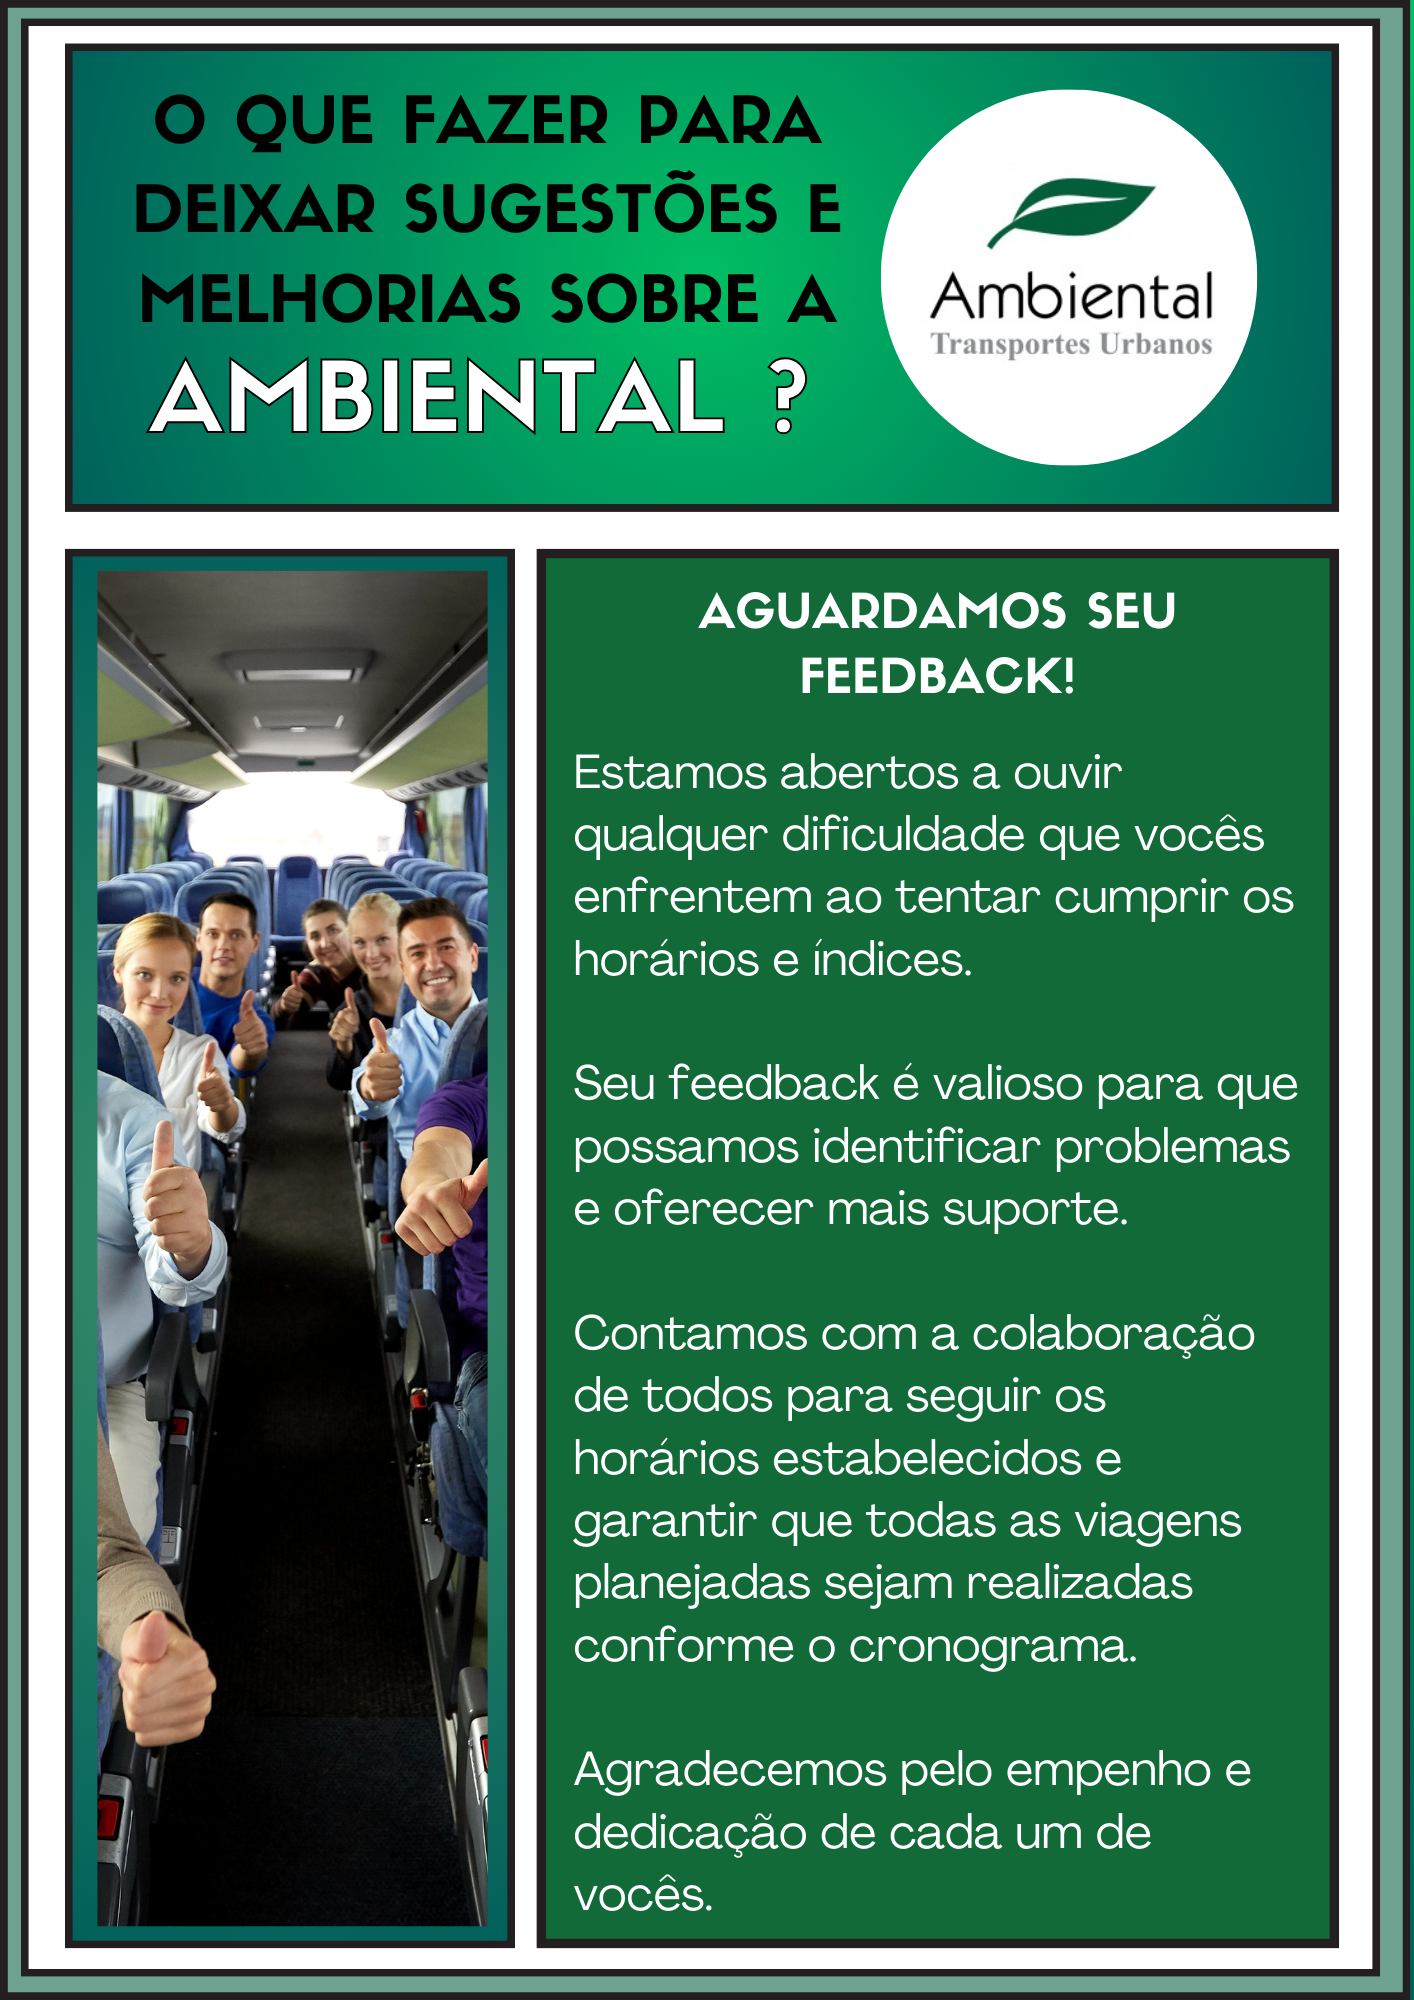
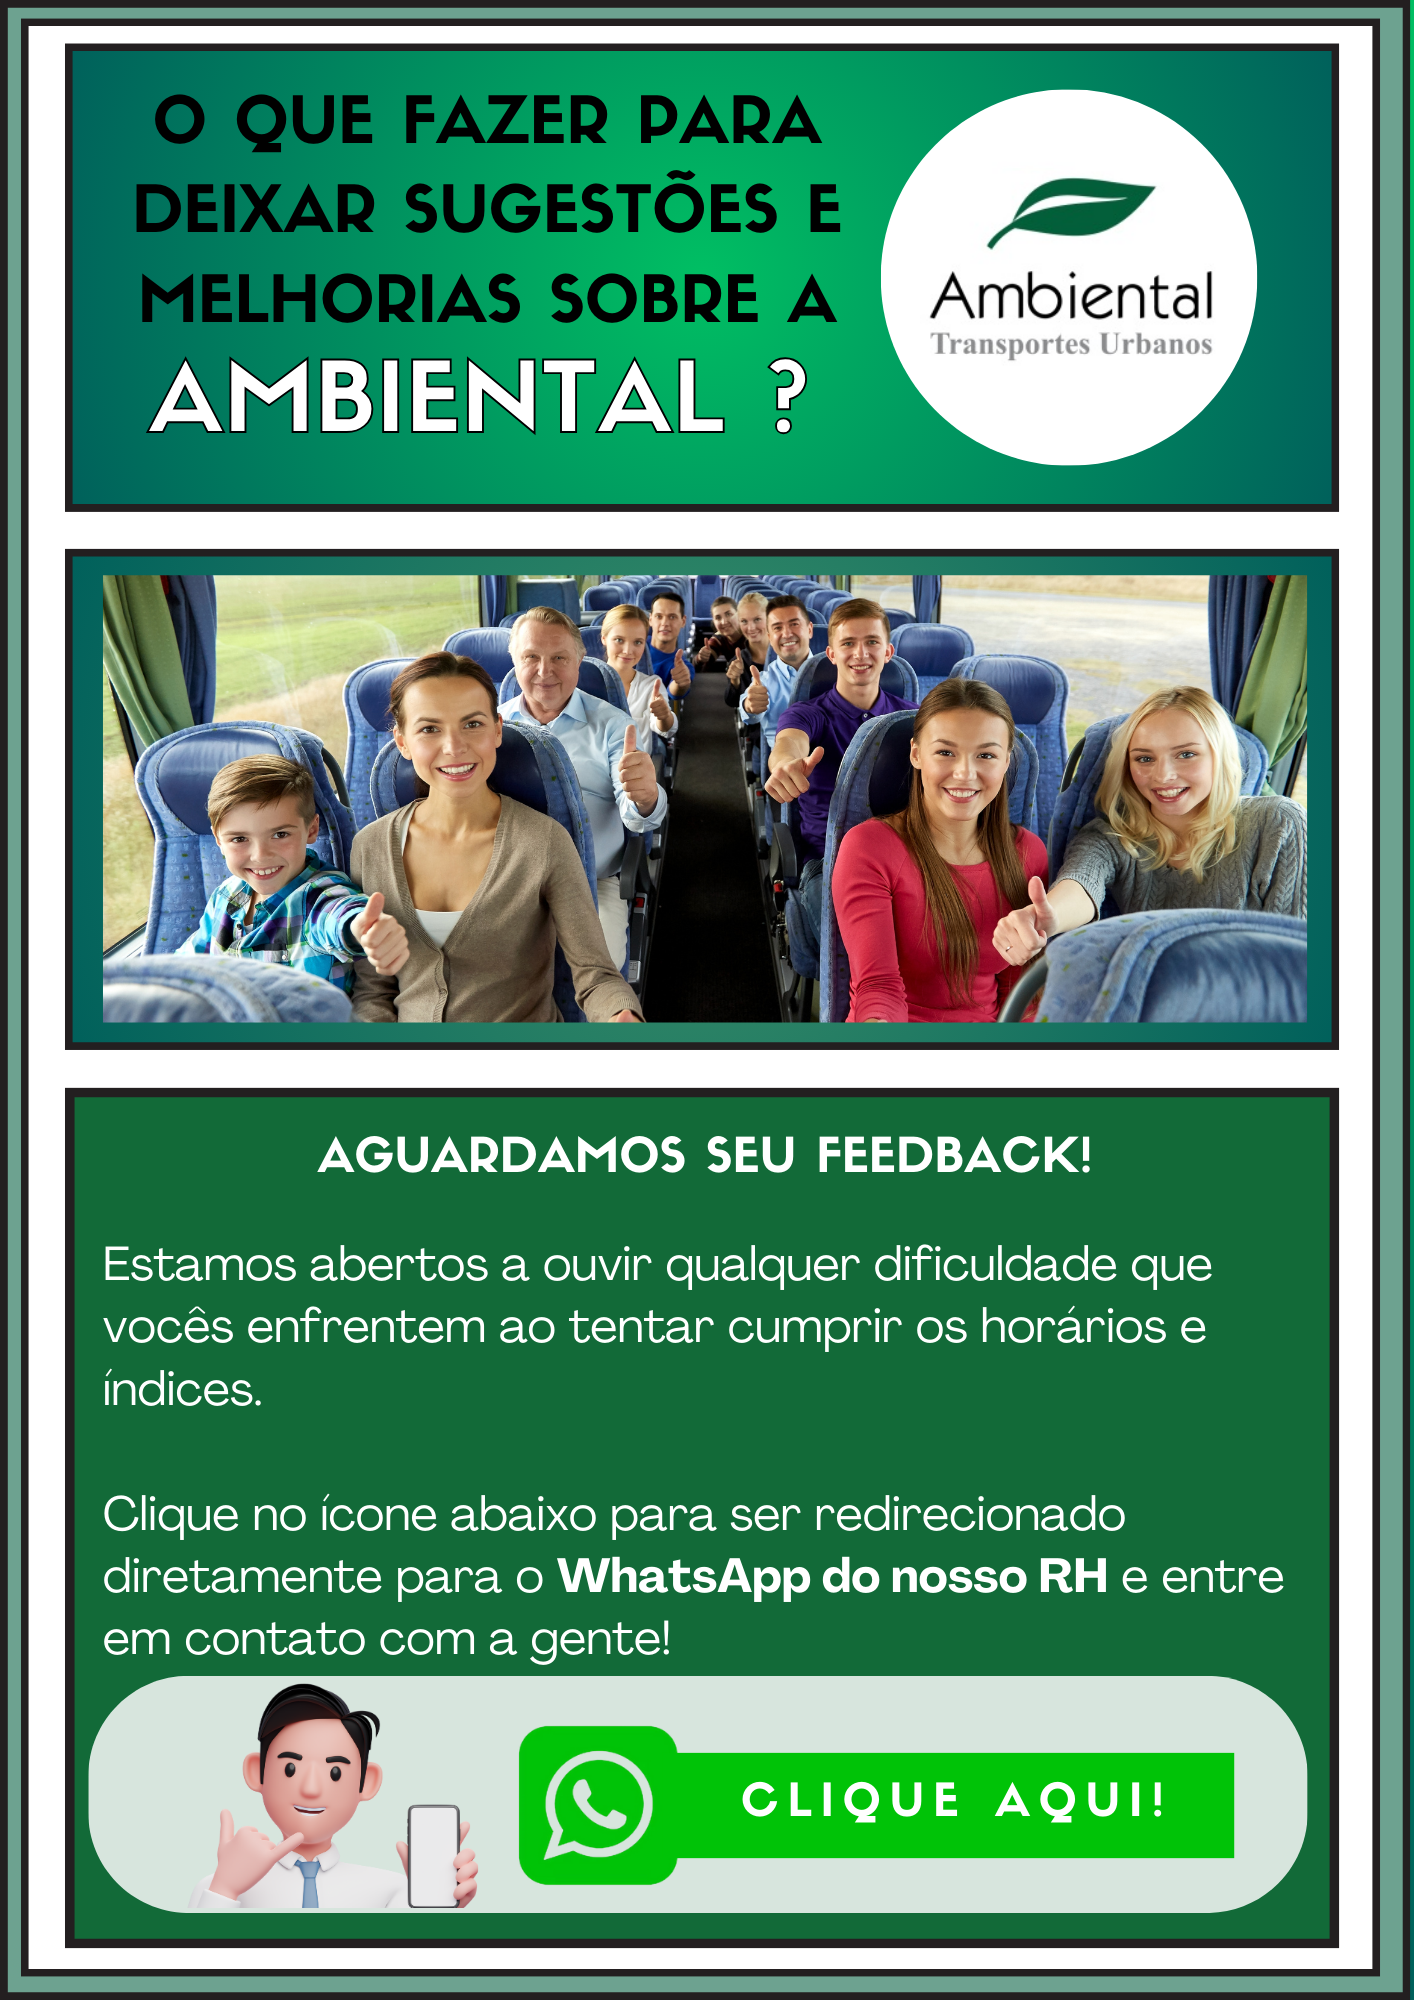
Remove nav buttons and add whatsapp link to HR

diff --git a/assets/css/style.css b/assets/css/style.css
@@ -117,9 +117,10 @@ li {
   padding-top: 75%;
   filter: drop-shadow(0 0 10px #0003);
   perspective: 100px;
-  /*
-   *
-   * -webkit-box-shadow: 10px 10px 5px 0px rgba(0, 0, 0, 0.75);
+
+  /* Abaixo retirei os efeitos de sombra */
+    /*
+   -webkit-box-shadow: 10px 10px 5px 0px rgba(0, 0, 0, 0.75);
   -moz-box-shadow: 10px 10px 5px 0px rgba(0, 0, 0, 0.75);
   box-shadow: 10px 10px 5px 0px rgba(0, 0, 0, 0.75); 
    */
@@ -170,16 +171,19 @@ li {
   scroll-snap-align: center;
 }
 
+
+/* Abaixo retirei as animações dos slides mudarem sozinhos. */
 @media (hover: hover) {
   .carousel__snapper {
-    animation-name: tonext, snap;
+    /* animation-name: tonext, snap;
     animation-timing-function: ease;
     animation-duration: 4s;
     animation-iteration-count: infinite;
+    */
   }
 
   .carousel__slide:last-child .carousel__snapper {
-    animation-name: tostart, snap;
+    /* animation-name: tostart, snap; */
   }
 }
 
@@ -221,7 +225,8 @@ li {
 
 .carousel::before,
 .carousel::after,
-.carousel__prev,
+/* Abaixo retire os botões de navegação de ir e voltar acima da imagem */
+/* .carousel__prev,
 .carousel__next {
   position: absolute;
   top: 0;
@@ -233,7 +238,7 @@ li {
   font-size: 0;
   outline: 0;
 }
-
+*/
 .carousel::before,
 .carousel__prev {
   left: -1rem;

diff --git a/index.html b/index.html
@@ -73,11 +73,12 @@
       </li>
       <li id="carousel__slide9" tabindex="0" class="carousel__slide">
         <div class="carousel__snapper">
-          <img src="./assets/imgs/20.png" alt="Slide 9">
+          <a href="https://wa.me/5511976162587" target="_blank">
+            <img src="./assets/imgs/20.png" alt="Slide 9">
+          </a>
+          <!-- adicionar url https://wa.me/5511976162587 -->
           <a href="#carousel__slide8" class="carousel__prev">Go to previous slide</a>
           <a href="#carousel__slide1" class="carousel__next">Go to first slide</a>
-          <a href="https://wa.me/5511976162587" target="_blank">Link para WhatsApp</a>
-          <!-- O numero de cima é o do RH -->
         </div>
       </li>
 
@@ -125,7 +126,7 @@
         gif.style.display = 'block';
         setTimeout(() => {
           gif.style.display = 'none';
-        }, 5000); // O GIF vai desaparecer após 5 segundos
+        }, 4000); // O GIF vai desaparecer após 5 segundos
       } else {
         gif.style.display = 'none';
       }
